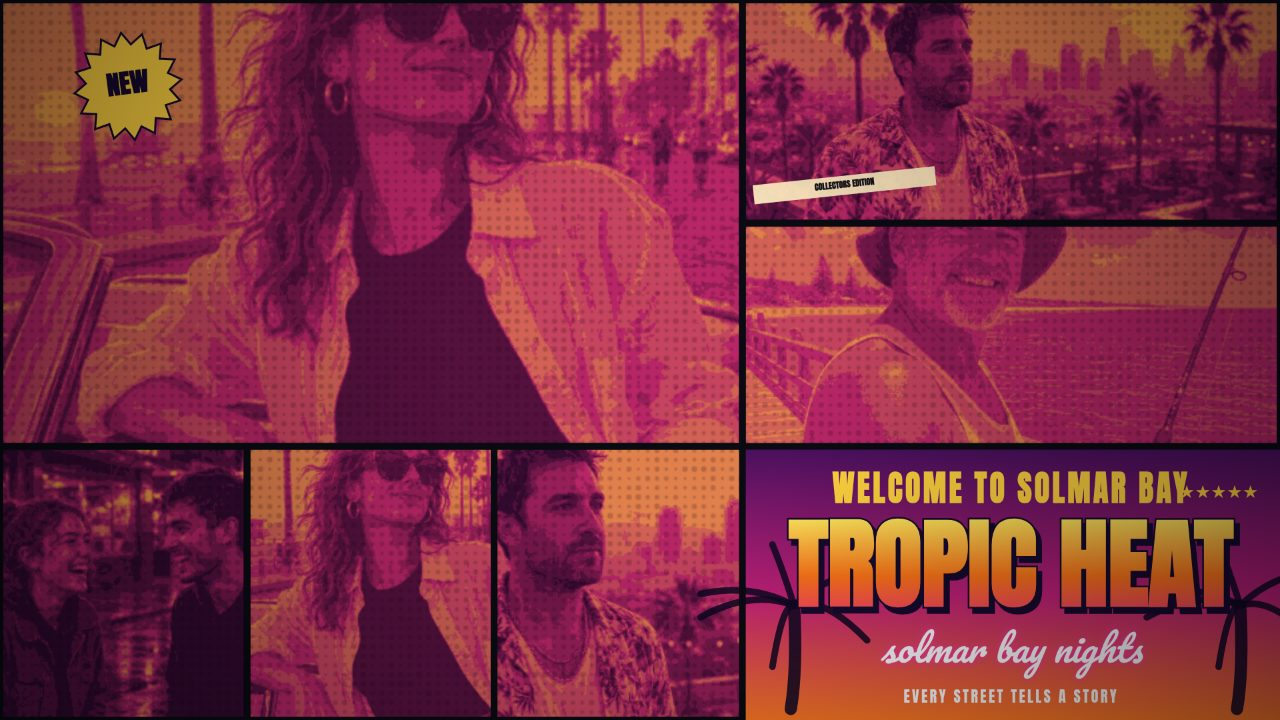
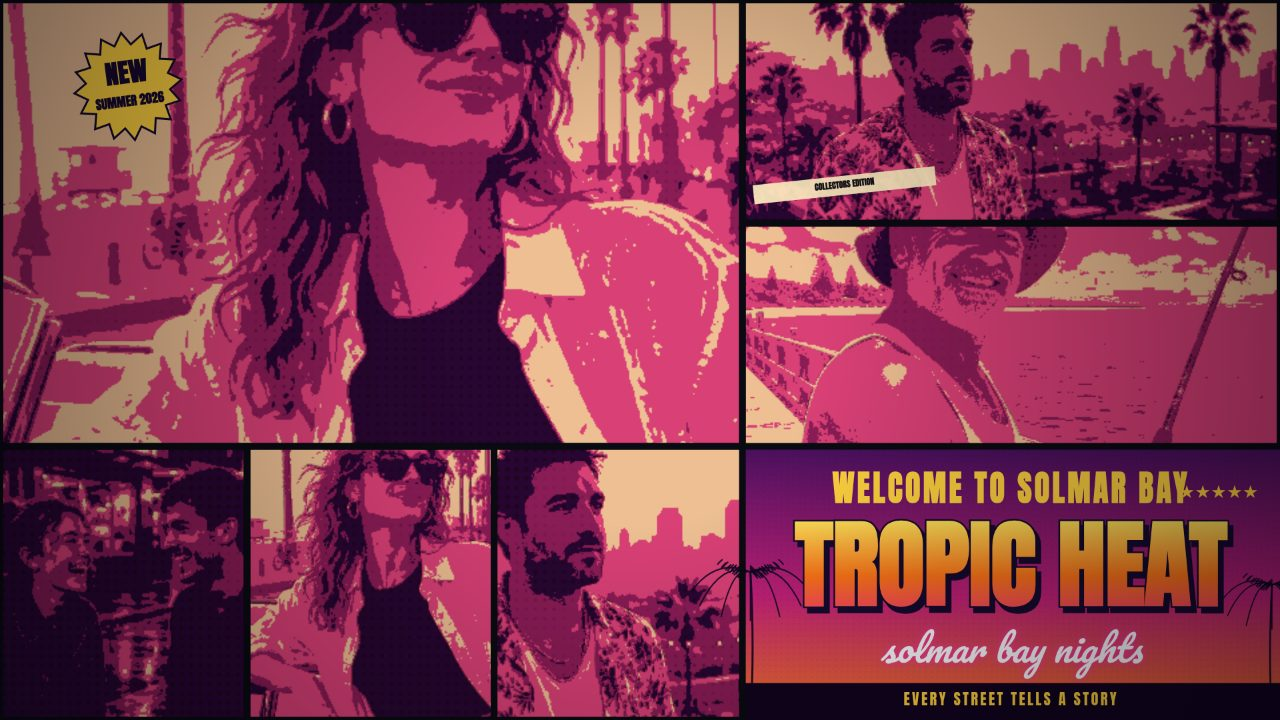
v2: Poster Ink v2 (flat posterize + ink edges), tagline bar, hero push, denser editor

diff --git a/app/src/render.js b/app/src/render.js
@@ -1,6 +1,6 @@
 const PHOTOS = ['boulevard', 'pier', 'rooftop', 'neon'];
 const PALETTES = {
-  ink: [[42,10,46],[194,42,109],[255,179,71]], sunset: [[59,17,84],[194,65,93],[255,196,107]],
+  ink: [[28,5,48],[142,30,90],[232,72,127],[255,217,160]], sunset: [[59,17,84],[194,65,93],[255,217,160]],
   neon: [[6,42,51],[30,113,139],[255,93,162]], golden: [[43,28,17],[157,105,51],[255,222,142]],
   noir: [[8,8,13],[112,112,112],[250,250,250]], clean: [[18,28,54],[128,126,128],[255,242,220]]
 };
@@ -43,40 +43,63 @@ function drawPhoto(ctx,W,H,r,panel,index,state,layout) {
     const oc=off.getContext('2d',{willReadFrequently:true});oc.drawImage(img,(cx-x)*quality,(cy-y)*quality,dw*quality,dh*quality);
     try {
       const data=oc.getImageData(0,0,off.width,off.height), px=data.data, grade=panel.grade||state.grade||'ink', pal=PALETTES[grade]||PALETTES.ink;
+      const lumMap=new Float32Array(off.width*off.height), ink=grade==='ink', hero=ink&&layout==='keyart'&&index===0;
+      if(ink){
+        for(let yy=0;yy<off.height;yy++)for(let xx=0;xx<off.width;xx++){
+          const k=(yy*off.width+xx)*4, lift=hero?1.08:1;
+          const rr=clamp(px[k]*lift,0,255),gg=clamp(px[k+1]*lift,0,255),bb=clamp(px[k+2]*lift,0,255);
+          lumMap[yy*off.width+xx]=(rr*.299+gg*.587+bb*.114)/255;
+        }
+      }
       for(let i=0;i<px.length;i+=4) {
-        const lum=(px[i]*.299+px[i+1]*.587+px[i+2]*.114)/255;
+        const pix=i/4, xx=pix%off.width, yy=Math.floor(pix/off.width), lift=hero?1.08:1;
+        const lum=ink?lumMap[pix]:((px[i]*.299+px[i+1]*.587+px[i+2]*.114)/255);
         if(grade==='noir'){const v=Math.round(clamp((lum-.38)*1.7,0,1)*255);px[i]=px[i+1]=px[i+2]=v;continue;}
         if(grade==='clean'){const f=1.08;for(let c=0;c<3;c++)px[i+c]=clamp((px[i+c]-128)*f+128,0,255);continue;}
+        if(ink){
+          const l=clamp(lum,0,1), band=l<.22?0:l<.46?1:l<.72?2:3, color=pal[band];
+          const right=xx+1<off.width?Math.abs(lumMap[pix+1]-lumMap[pix]):0, down=yy+1<off.height?Math.abs(lumMap[pix+off.width]-lumMap[pix]):0;
+          const edge=Math.max(right,down), mix=edge>.16?Math.min(.55,.55*(edge-.16)/.18):0;
+          for(let c=0;c<3;c++)px[i+c]=color[c]*(1-mix)+[22,4,16][c]*mix;
+          continue;
+        }
         let t=lum*2, a=t<1?pal[0]:pal[1],b=t<1?pal[1]:pal[2];t=t<1?t: t-1;
-        if(grade==='ink') t=Math.round(t*4)/4;
         for(let c=0;c<3;c++)px[i+c]=a[c]*(1-t)+b[c]*t;
       }
       oc.putImageData(data,0,0);
-      if(grade==='ink') { oc.fillStyle='rgba(18,2,12,.20)'; for(let yy=3;yy<off.height;yy+=7)for(let xx=3;xx<off.width;xx+=7){const rad=1+Math.random()*1.2;oc.beginPath();oc.arc(xx,yy,rad,0,Math.PI*2);oc.fill();} }
+      if(ink) { oc.fillStyle='#160410';for(let yy=3;yy<off.height;yy+=7)for(let xx=3;xx<off.width;xx+=7){const l=lumMap[yy*off.width+xx];if(l>=.46)continue;const rad=(1-l/.46)*1.35;oc.beginPath();oc.arc(xx,yy,rad,0,Math.PI*2);oc.fill();} }
     } catch(e) { /* very large browser canvas: preserve the photo */ }
     ctx.drawImage(off,x,y,w,h);
   }
   const tint={ink:'rgba(115,12,65,.13)',sunset:'rgba(255,100,32,.12)',neon:'rgba(0,220,220,.15)',golden:'rgba(204,145,35,.12)',noir:'rgba(0,0,0,.08)',clean:'rgba(255,255,255,.02)'}[panel.grade||state.grade]||'rgba(0,0,0,.1)';
   ctx.fillStyle=tint;ctx.fillRect(x,y,w,h);ctx.restore();
 }
-function palm(ctx,x,y,s) {
-  ctx.save();ctx.translate(x,y);ctx.scale(s,s);ctx.strokeStyle='rgba(17,8,35,.88)';ctx.lineCap='round';ctx.lineJoin='round';
-  ctx.lineWidth=15;ctx.beginPath();ctx.moveTo(0,0);ctx.quadraticCurveTo(8,-48,4,-126);ctx.stroke();
-  ctx.lineWidth=8;
-  for(let i=0;i<6;i++){
-    const a=-Math.PI*.94+i*Math.PI*.376, ex=Math.cos(a)*112, ey=-126+Math.sin(a)*76;
-    ctx.beginPath();ctx.moveTo(4,-126);ctx.quadraticCurveTo(Math.cos(a)*48,-150+Math.sin(a)*20,ex,ey);ctx.stroke();
+function palm(ctx,x,y,w,h,flip=1) {
+  ctx.save();ctx.translate(x,y);ctx.scale(flip,1);ctx.strokeStyle='rgba(17,8,35,.9)';ctx.lineCap='round';ctx.lineJoin='round';
+  const trunk=h*.78, crown=-trunk;ctx.lineWidth=Math.max(2,w*.012);ctx.beginPath();ctx.moveTo(0,0);ctx.quadraticCurveTo(w*.025,-trunk*.46,0,crown);ctx.stroke();
+  ctx.lineWidth=Math.max(1.5,w*.008);
+  for(let i=0;i<7;i++){
+    const a=Math.PI+i*Math.PI/6, ex=Math.cos(a)*w*.34, ey=crown+Math.abs(Math.sin(a))*h*.16+h*.1;
+    const cx=ex*.58, cy=crown-h*.08+Math.abs(Math.sin(a))*h*.04;
+    ctx.beginPath();ctx.moveTo(0,crown);ctx.quadraticCurveTo(cx,cy,ex,ey);ctx.stroke();
+    for(let j=1;j<=5;j++){
+      const t=j/6, bx=cx*t+ex*(1-t)*.0, by=crown*(1-t)+cy*t;
+      const side=(i<3?-1:1), leaf=w*.045*(1-t*.5);
+      ctx.beginPath();ctx.moveTo(bx,by);ctx.quadraticCurveTo(bx+side*leaf*.48,by+leaf*.35,bx+side*leaf,by+leaf);ctx.stroke();
+    }
   }
   ctx.restore();
 }
 function titleBlock(ctx,x,y,w,h,state) {
   const g=ctx.createLinearGradient(0,y,0,y+h);g.addColorStop(0,'#47105d');g.addColorStop(.55,'#c32179');g.addColorStop(1,'#ff7a24');
-  ctx.fillStyle=g;ctx.fillRect(x,y,w,h);palm(ctx,x+w*.09,y+h*.96,Math.min(w,h)*.003);palm(ctx,x+w*.92,y+h*.96,Math.min(w,h)*.003);
+  ctx.fillStyle=g;ctx.fillRect(x,y,w,h);
+  ctx.fillStyle='rgba(22,4,16,.08)';for(let yy=y+5;yy<y+h;yy+=9)for(let xx=x+5;xx<x+w;xx+=9){ctx.beginPath();ctx.arc(xx,yy,1.2,0,Math.PI*2);ctx.fill();}
+  palm(ctx,x+w*.015,y+h*.99,w*.32,h*.68,1);palm(ctx,x+w*.985,y+h*.99,w*.28,h*.62,-1);
   const pad=w*.08, maxW=w*.84;ctx.textAlign='center';ctx.textBaseline='middle';
   ctx.font=`bold ${Math.max(14,h*.13)}px Anton, Impact, sans-serif`;ctx.fillStyle='#ffd23f';ctx.letterSpacing=`${Math.max(1,h*.012)}px`;
   const starCount=Math.max(0,Math.min(5,state.stars?.n||5)), starText='★'.repeat(starCount)+'☆'.repeat(5-starCount), starSize=Math.min(h*.065,w*.04), starWidth=starSize*5*.72;
   ctx.fillText((state.kicker||'WELCOME TO SOLMAR BAY').toUpperCase(),x+w/2,y+h*.17,state.stars?.on?Math.max(1,maxW-starWidth-pad*.7):maxW);
-  let title=(state.title||'TROPIC HEAT').toUpperCase(), fs=h*.43;ctx.letterSpacing='0px';
+  let title=(state.title||'TROPIC HEAT').toUpperCase(), fs=h*.473;ctx.letterSpacing='0px';
   ctx.font=`bold ${fs}px Anton, Impact, sans-serif`;
   while(ctx.measureText(title).width>maxW&&fs>10){fs*=.94;ctx.font=`bold ${fs}px Anton, Impact, sans-serif`;}
   const tg=ctx.createLinearGradient(0,y+h*.27,0,y+h*.68);tg.addColorStop(0,'#ffe259');tg.addColorStop(.5,'#ff7518');tg.addColorStop(1,'#ff2e88');
@@ -84,14 +107,16 @@ function titleBlock(ctx,x,y,w,h,state) {
   ctx.font=`bold ${fs}px Anton, Impact, sans-serif`;ctx.strokeText(title,x+w/2,y+h*.48,maxW);ctx.fillStyle=tg;ctx.fillText(title,x+w/2,y+h*.48,maxW);ctx.shadowOffsetX=ctx.shadowOffsetY=0;
   ctx.font=`italic ${Math.max(15,h*.13)}px Pacifico, cursive`;ctx.fillStyle='#fff';ctx.shadowColor='#ff2eae';ctx.shadowBlur=12;
   ctx.fillText(state.script||'solmar bay nights',x+w/2,y+h*.76,maxW);ctx.shadowBlur=0;
-  ctx.font=`${Math.max(9,h*.055)}px Anton, sans-serif`;ctx.fillStyle='#fff';ctx.letterSpacing=`${Math.max(1,h*.008)}px`;
-  ctx.fillText((state.tagline||'EVERY STREET TELLS A STORY').toUpperCase(),x+w/2,y+h*.92,maxW);ctx.letterSpacing='0px';
+  ctx.fillStyle='#12041f';ctx.fillRect(x,y+h*.865,w,h*.135);
+  ctx.font=`${Math.max(9,h*.055)}px Anton, sans-serif`;ctx.fillStyle='#ffd23f';ctx.letterSpacing=`${Math.max(1,h*.008)}px`;
+  ctx.fillText((state.tagline||'EVERY STREET TELLS A STORY').toUpperCase(),x+w/2,y+h*.93,maxW);ctx.letterSpacing='0px';
   if(state.stars?.on){ctx.font=`${starSize}px sans-serif`;ctx.fillStyle='#ffd23f';ctx.textAlign='right';ctx.textBaseline='middle';ctx.fillText(starText,x+w*.96,y+h*.17);}
 }
-function starburst(ctx,x,y,r,text) {
+function starburst(ctx,x,y,r,text,sub='') {
   ctx.save();ctx.translate(x,y);ctx.rotate(-.13);ctx.beginPath();
   for(let i=0;i<32;i++){const a=-Math.PI/2+i*Math.PI/16, rr=i%2?r*.78:r;ctx.lineTo(Math.cos(a)*rr,Math.sin(a)*rr);}ctx.closePath();ctx.fillStyle='#ffd23f';ctx.strokeStyle='#160a2e';ctx.lineWidth=3;ctx.fill();ctx.stroke();
-  ctx.fillStyle='#160a2e';ctx.font=`bold ${r*.48}px Anton, sans-serif`;ctx.textAlign='center';ctx.textBaseline='middle';ctx.fillText(text||'NEW',0,0,r*1.35);ctx.restore();
+  ctx.fillStyle='#160a2e';ctx.font=`bold ${r*.48}px Anton, sans-serif`;ctx.textAlign='center';ctx.textBaseline='middle';ctx.fillText(text||'NEW',0,-r*.2,r*1.35);
+  ctx.font=`bold ${r*.23}px Anton, sans-serif`;ctx.fillText(sub,0,r*.3,r*1.55);ctx.restore();
 }
 function tape(ctx,x,y,w,text) {ctx.save();ctx.translate(x,y);ctx.rotate(-Math.PI/30);const h=Math.max(22,w*.105);ctx.fillStyle='rgba(255,239,194,.93)';ctx.fillRect(-w/2,-h/2,w,h);ctx.fillStyle='#17131a';ctx.textAlign='center';ctx.textBaseline='middle';ctx.font=`bold ${Math.max(10,h*.42)}px Anton, sans-serif`;ctx.fillText(text||'COLLECTORS EDITION',0,0,w*.94);ctx.restore();}
 function skyline(ctx,x,y,w,h){ctx.fillStyle='rgba(18,8,34,.78)';ctx.beginPath();ctx.moveTo(x,y+h);for(let i=0;i<18;i++){let bx=x+w*i/18,bw=w/18;ctx.lineTo(bx,y+h);ctx.lineTo(bx,y+h*(.42+((i*17)%35)/100));ctx.lineTo(bx+bw*.7,y+h*(.42+((i*17)%35)/100));}ctx.lineTo(x+w,y+h);ctx.closePath();ctx.fill();}
@@ -108,7 +133,7 @@ export function renderCover(ctx,W,H,state={}) {
   if(layout==='trio'){const g=ctx.createLinearGradient(0,H*.57,0,H);g.addColorStop(0,'rgba(55,5,47,0)');g.addColorStop(1,'rgba(18,5,30,.95)');ctx.fillStyle=g;ctx.fillRect(0,H*.55,W,H*.45);titleBlock(ctx,W*.1,H*.63,W*.8,H*.34,state);}
   if(layout==='full'){drawPhoto(ctx,W,H,rs[0],state.panels?.[0]||{photo:'boulevard',zoom:1},0,state,layout);titleBlock(ctx,0,H*.68,W,H*.32,state);}
   if(layout==='story')titleBlock(ctx,0,H*.72,W,H*.28,state);
-  if(state.badge?.on)starburst(ctx,W*.1,H*.12,Math.min(W,H)*.075,state.badge.text);
+  if(state.badge?.on)starburst(ctx,W*.1,H*.12,Math.min(W,H)*.075,state.badge.text,state.badge.sub);
   if(state.tape?.on){const roof=layout==='band'?rs[1]:layout==='keyart'?rs[1]:rs[0];tape(ctx,(roof[0]+roof[2]*.19)*W,(roof[1]+roof[3]*.83)*H,roof[2]*W*.34,state.tape.text);}
   if(gutter>0&&layout!=='full'){
     rs.forEach((r,i)=>{if((layout==='keyart'&&i===6)||(layout==='band'&&i===3)||(layout==='slash'&&i===3)||(layout==='story'&&i===3))return;ctx.strokeStyle='#0a0a12';ctx.lineWidth=gutter*W/1920;panelPath(ctx,r[0]*W,r[1]*H,r[2]*W,r[3]*H,i,layout);ctx.stroke();});

diff --git a/app/src/main.js b/app/src/main.js
@@ -3,7 +3,7 @@ if(new URLSearchParams(location.search).get('shot')==='cover') { /* shot rendere
 else {
 const names=['keyart','band','slash','grid6','trio','full','story'], grades=['ink','sunset','neon','golden','noir','clean'];
 const sizes={wide:[1920,1080],square:[1080,1080],portrait:[1080,1350]};
-const defaults=window.__demoState||{size:'wide',layout:'keyart',grade:'ink',gutter:10,grain:.1,vignette:true,panels:[],kicker:'WELCOME TO SOLMAR BAY',title:'TROPIC HEAT',script:'solmar bay nights',tagline:'EVERY STREET TELLS A STORY',badge:{on:true,text:'NEW'},stars:{on:true,n:5},tape:{on:true,text:'COLLECTORS EDITION'}};
+const defaults=window.__demoState||{size:'wide',layout:'keyart',grade:'ink',gutter:10,grain:.1,vignette:true,panels:[],kicker:'WELCOME TO SOLMAR BAY',title:'TROPIC HEAT',script:'solmar bay nights',tagline:'EVERY STREET TELLS A STORY',badge:{on:true,text:'NEW',sub:'SUMMER 2026'},stars:{on:true,n:5},tape:{on:true,text:'COLLECTORS EDITION'}};
 let state=structuredClone(defaults), selected=0, uploads=[], history=[JSON.stringify(state)], cursor=0, drag=null;
 const $=id=>document.getElementById(id), canvas=$('cover'), ctx=canvas.getContext('2d');
 function save(){const s=JSON.stringify(state);if(history[cursor]!==s){history=history.slice(0,cursor+1);history.push(s);cursor=history.length-1;}render();}
@@ -20,7 +20,7 @@ function panelEditor(){const root=$('panelControls');root.innerHTML='';const cou
     const grade=document.createElement('select');['Global',...grades].forEach(v=>{const o=document.createElement('option');o.value=v==='Global'?'':v;o.textContent=v;grade.append(o);});grade.value=p.grade||'';grade.onchange=()=>{p.grade=grade.value||null;save();};div.append(grade);div.onclick=()=>{selected=i;render();};root.append(div);});
 }
 function syncControls(){panelEditor();$('size').value=state.size;for(const [id,key] of [['badgeOn','badge'],['starsOn','stars'],['tapeOn','tape'],['vignetteOn','vignette']])$(id).checked=key==='vignette'?state[key]!==false:!!state[key]?.on;
-  $('grainOn').checked=state.grain>0;$('badgeText').value=state.badge?.text||'';$('tapeText').value=state.tape?.text||'';$('gutter').value=state.gutter;$('grain').value=Math.round(state.grain*100);}
+  $('grainOn').checked=state.grain>0;$('badgeText').value=state.badge?.text||'';$('badgeSub').value=state.badge?.sub||'';$('tapeText').value=state.tape?.text||'';$('gutter').value=state.gutter;$('grain').value=Math.round(state.grain*100);}
 syncControls();sync();
 function restore(pos){cursor=pos;state=JSON.parse(history[cursor]);buttonSet('layouts',names,'layout');buttonSet('grades',grades,'grade');syncControls();sync();}
 $('undo').onclick=()=>{if(cursor>0)restore(cursor-1);};$('redo').onclick=()=>{if(cursor<history.length-1)restore(cursor+1);};
@@ -29,6 +29,7 @@ $('size').onchange=()=>{state.size=$('size').value;save();sync();};
 for(const [id,key] of [['badgeOn','badge'],['starsOn','stars'],['tapeOn','tape']])$(id).onchange=()=>{state[key].on=$(id).checked;save();};
 $('vignetteOn').onchange=()=>{state.vignette=$('vignetteOn').checked;save();};$('grainOn').onchange=()=>{state.grain=$('grainOn').checked?Number($('grain').value)/100:0;save();};
 $('badgeText').onchange=()=>{state.badge.text=$('badgeText').value;save();};$('tapeText').onchange=()=>{state.tape.text=$('tapeText').value;save();};
+$('badgeSub').onchange=()=>{state.badge.sub=$('badgeSub').value;save();};
 $('gutter').oninput=()=>{state.gutter=+$('gutter').value;render();};$('gutter').onchange=save;
 $('grain').oninput=()=>{state.grain=+$('grain').value/100;$('grainOn').checked=state.grain>0;render();};$('grain').onchange=save;
 function addFiles(files){const accepted=[...files].filter(file=>file.type.startsWith('image/'));const count=Math.max(1,rects[state.layout].length);accepted.forEach((file,offset)=>{const target=(selected+offset)%count;const reader=new FileReader();reader.onload=()=>{uploads.push({name:file.name,url:reader.result});state.panels[target]??={zoom:1,x:0,y:0};state.panels[target].photo=reader.result;selected=target;panelEditor();save();};reader.readAsDataURL(file);});}

diff --git a/app/index.html b/app/index.html
@@ -6,8 +6,8 @@
     <section><h2>Layout</h2><div id="layouts" class="choice-grid"></div></section>
     <section><h2>Grade</h2><div id="grades" class="choice-grid grades"></div></section>
     <section><h2>Canvas size</h2><select id="size"><option value="wide">1920 × 1080 · Wide</option><option value="square">1080 × 1080 · Square</option><option value="portrait">1080 × 1350 · Portrait</option></select></section>
+    <section><h2>Panel</h2><label class="upload">＋ Add photos<input id="upload" type="file" accept="image/*" multiple></label><div id="panelControls"></div></section>
     <section><h2>Cover text</h2><label>Kicker<input id="kicker"></label><label>Title<input id="title"></label><label>Script<input id="script"></label><label>Tagline<input id="tagline"></label></section>
-    <section><h2>Finish</h2><div class="toggles"><label><input id="badgeOn" type="checkbox"> Badge</label><label><input id="starsOn" type="checkbox"> Stars</label><label><input id="tapeOn" type="checkbox"> Tape</label><label><input id="grainOn" type="checkbox"> Grain</label><label><input id="vignetteOn" type="checkbox"> Vignette</label></div><input id="badgeText" placeholder="Badge text"><input id="tapeText" placeholder="Tape text"><label>Gutter <input id="gutter" type="range" min="0" max="24" value="10"></label><label>Grain <input id="grain" type="range" min="0" max="30" value="10"></label></section>
-    <section><h2>Photos</h2><label class="upload">＋ Add photos<input id="upload" type="file" accept="image/*" multiple></label><div id="panelControls"></div></section>
+    <section><h2>Finish</h2><div class="toggles"><label><input id="badgeOn" type="checkbox"> Badge</label><label><input id="starsOn" type="checkbox"> Stars</label><label><input id="tapeOn" type="checkbox"> Tape</label><label><input id="grainOn" type="checkbox"> Grain</label><label><input id="vignetteOn" type="checkbox"> Vignette</label></div><input id="badgeText" placeholder="Badge text"><input id="badgeSub" placeholder="Badge sub"><input id="tapeText" placeholder="Tape text"><label>Gutter <input id="gutter" type="range" min="0" max="24" value="10"></label><label>Grain <input id="grain" type="range" min="0" max="30" value="10"></label></section>
   </aside><section class="stage"><div class="stage-heading"><div><span class="eyebrow">LIVE PREVIEW</span><span id="dimensions">1920 × 1080</span></div><button id="allSizes" class="quiet">Export all 3 sizes</button></div><div class="canvas-wrap"><canvas id="cover"></canvas></div><div class="hint">Click a panel to select · drag to reframe · scroll to zoom</div></section></main>
   </div><script type="module" src="/src/shots.js"></script><script type="module" src="/src/main.js"></script></body></html>

diff --git a/app/src/shots.js b/app/src/shots.js
@@ -1,7 +1,7 @@
 import { renderCover, preloadCoverPhotos } from './render.js';
 const demo={size:'wide',layout:'keyart',grade:'ink',gutter:10,grain:.10,vignette:true,
-  panels:[{photo:'boulevard',zoom:1.05,fx:.50,fy:.30},{photo:'rooftop',zoom:1,fx:.42,fy:.32},{photo:'pier',zoom:1,fx:.45,fy:.30},{photo:'neon',zoom:1},{photo:'boulevard',zoom:1.6,x:0,y:.18},{photo:'rooftop',zoom:1.8,fx:.42,fy:.30},{photo:'boulevard',zoom:1}],
-  kicker:'WELCOME TO SOLMAR BAY',title:'TROPIC HEAT',script:'solmar bay nights',tagline:'EVERY STREET TELLS A STORY',badge:{on:true,text:'NEW'},stars:{on:true,n:5},tape:{on:true,text:'COLLECTORS EDITION'}};
+  panels:[{photo:'boulevard',zoom:1.3,fx:.46,fy:.26},{photo:'rooftop',zoom:1,fx:.42,fy:.32},{photo:'pier',zoom:1,fx:.45,fy:.30},{photo:'neon',zoom:1},{photo:'boulevard',zoom:1.6,x:0,y:.18},{photo:'rooftop',zoom:1.8,fx:.42,fy:.30},{photo:'boulevard',zoom:1}],
+  kicker:'WELCOME TO SOLMAR BAY',title:'TROPIC HEAT',script:'solmar bay nights',tagline:'EVERY STREET TELLS A STORY',badge:{on:true,text:'NEW',sub:'SUMMER 2026'},stars:{on:true,n:5},tape:{on:true,text:'COLLECTORS EDITION'}};
 const query=new URLSearchParams(location.search), shot=query.get('shot');
 if(['keyart','band','slash'].includes(query.get('layout')))demo.layout=query.get('layout');
 if(['ink','sunset','neon'].includes(query.get('grade')))demo.grade=query.get('grade');
